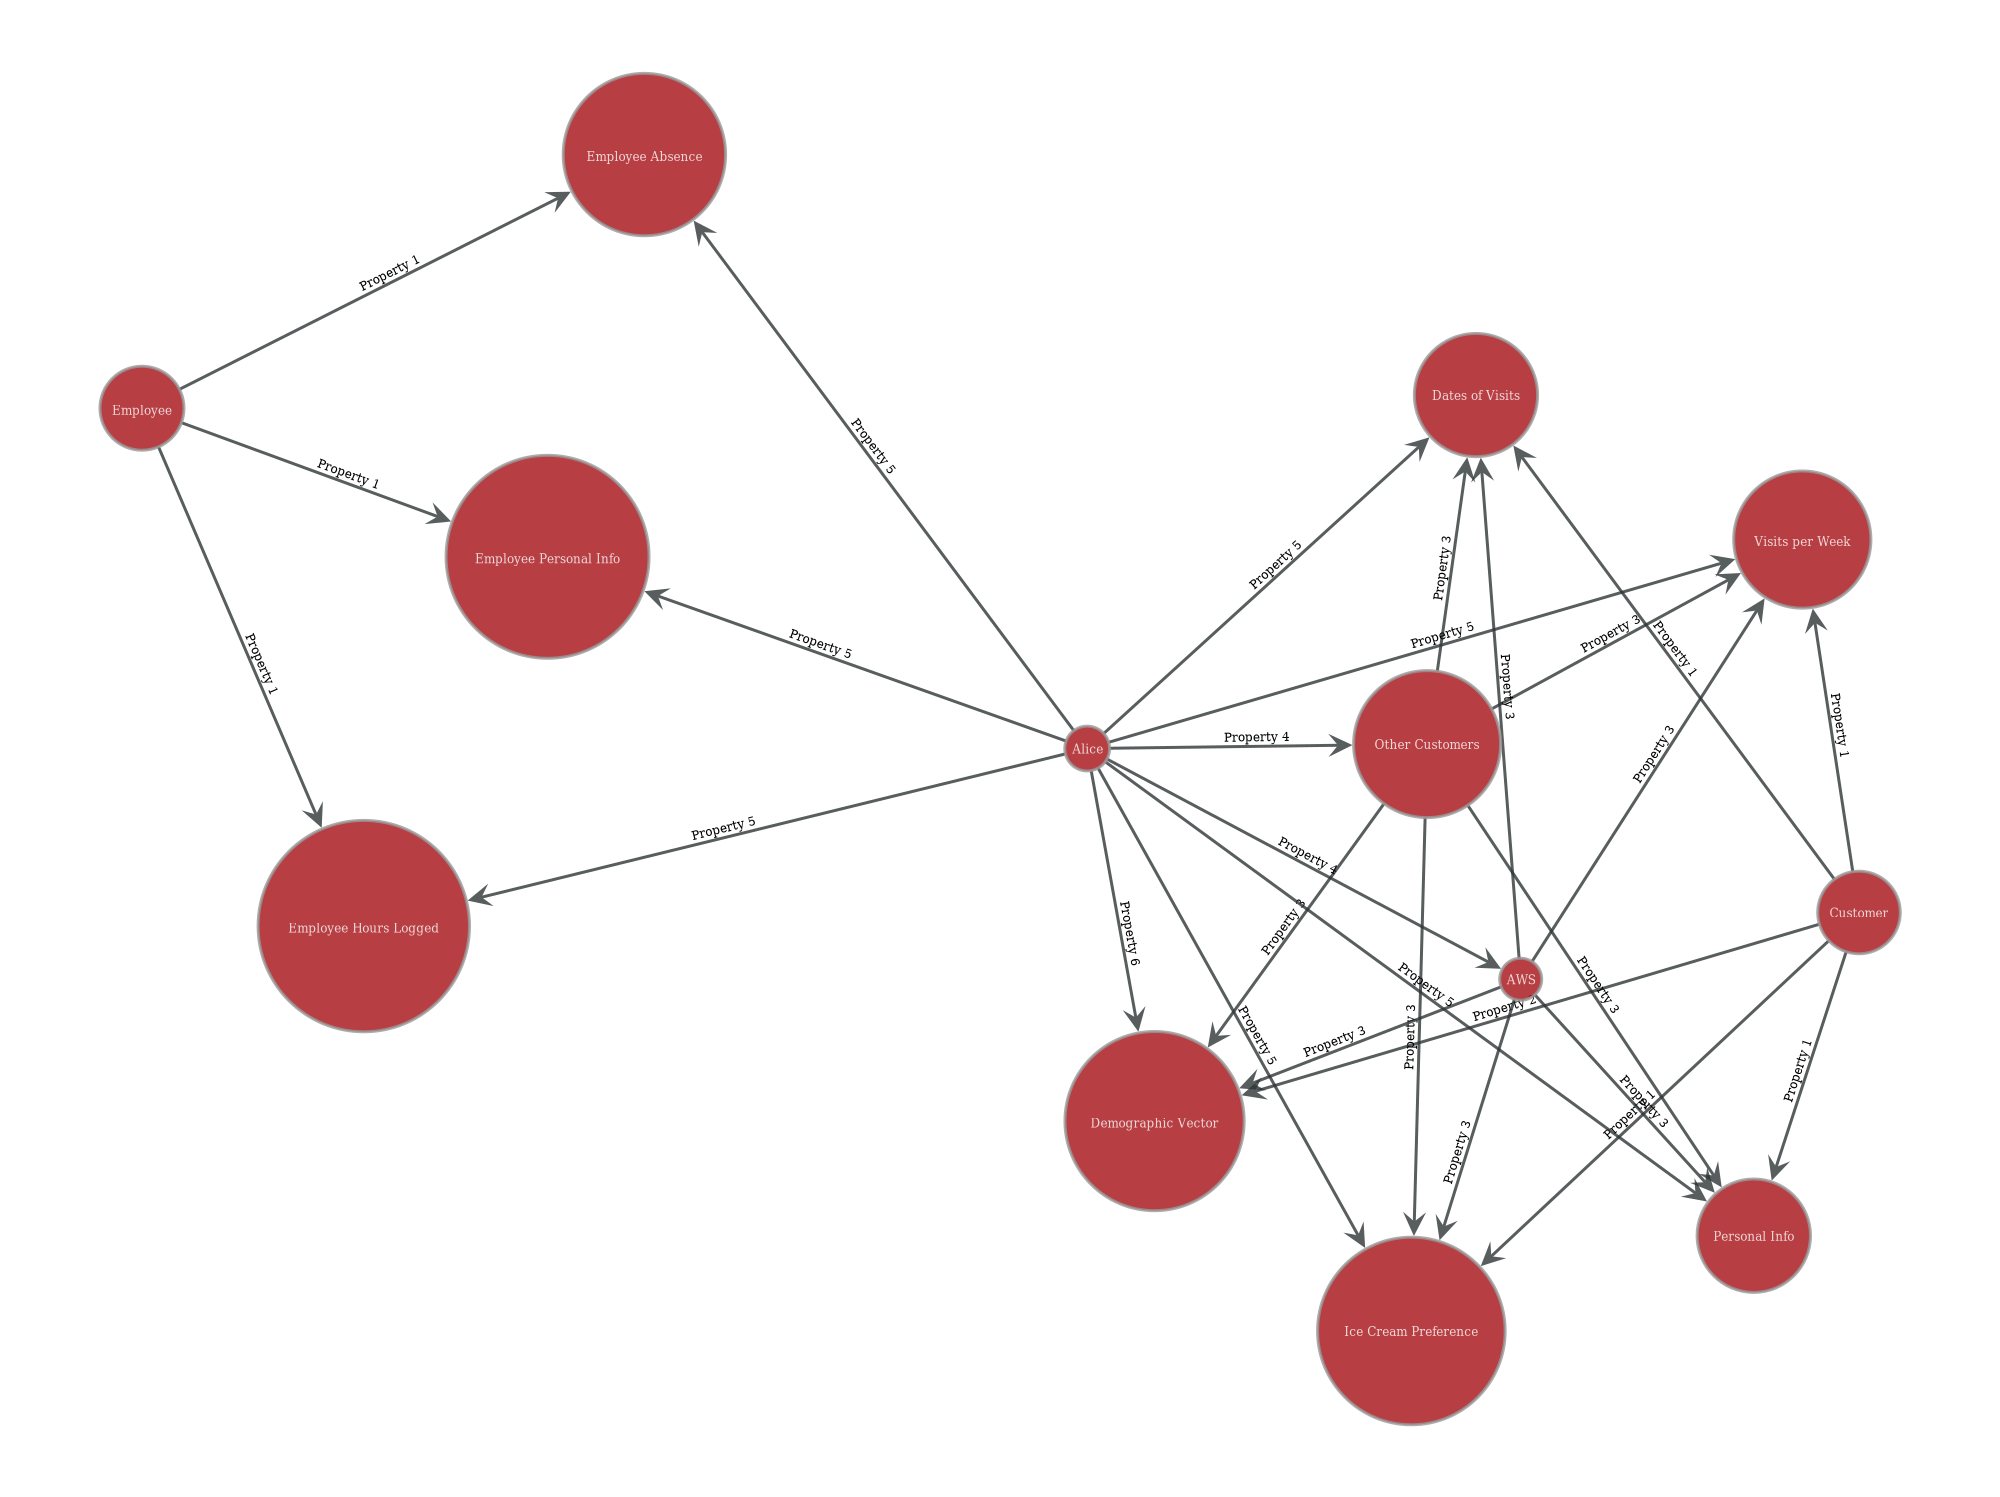
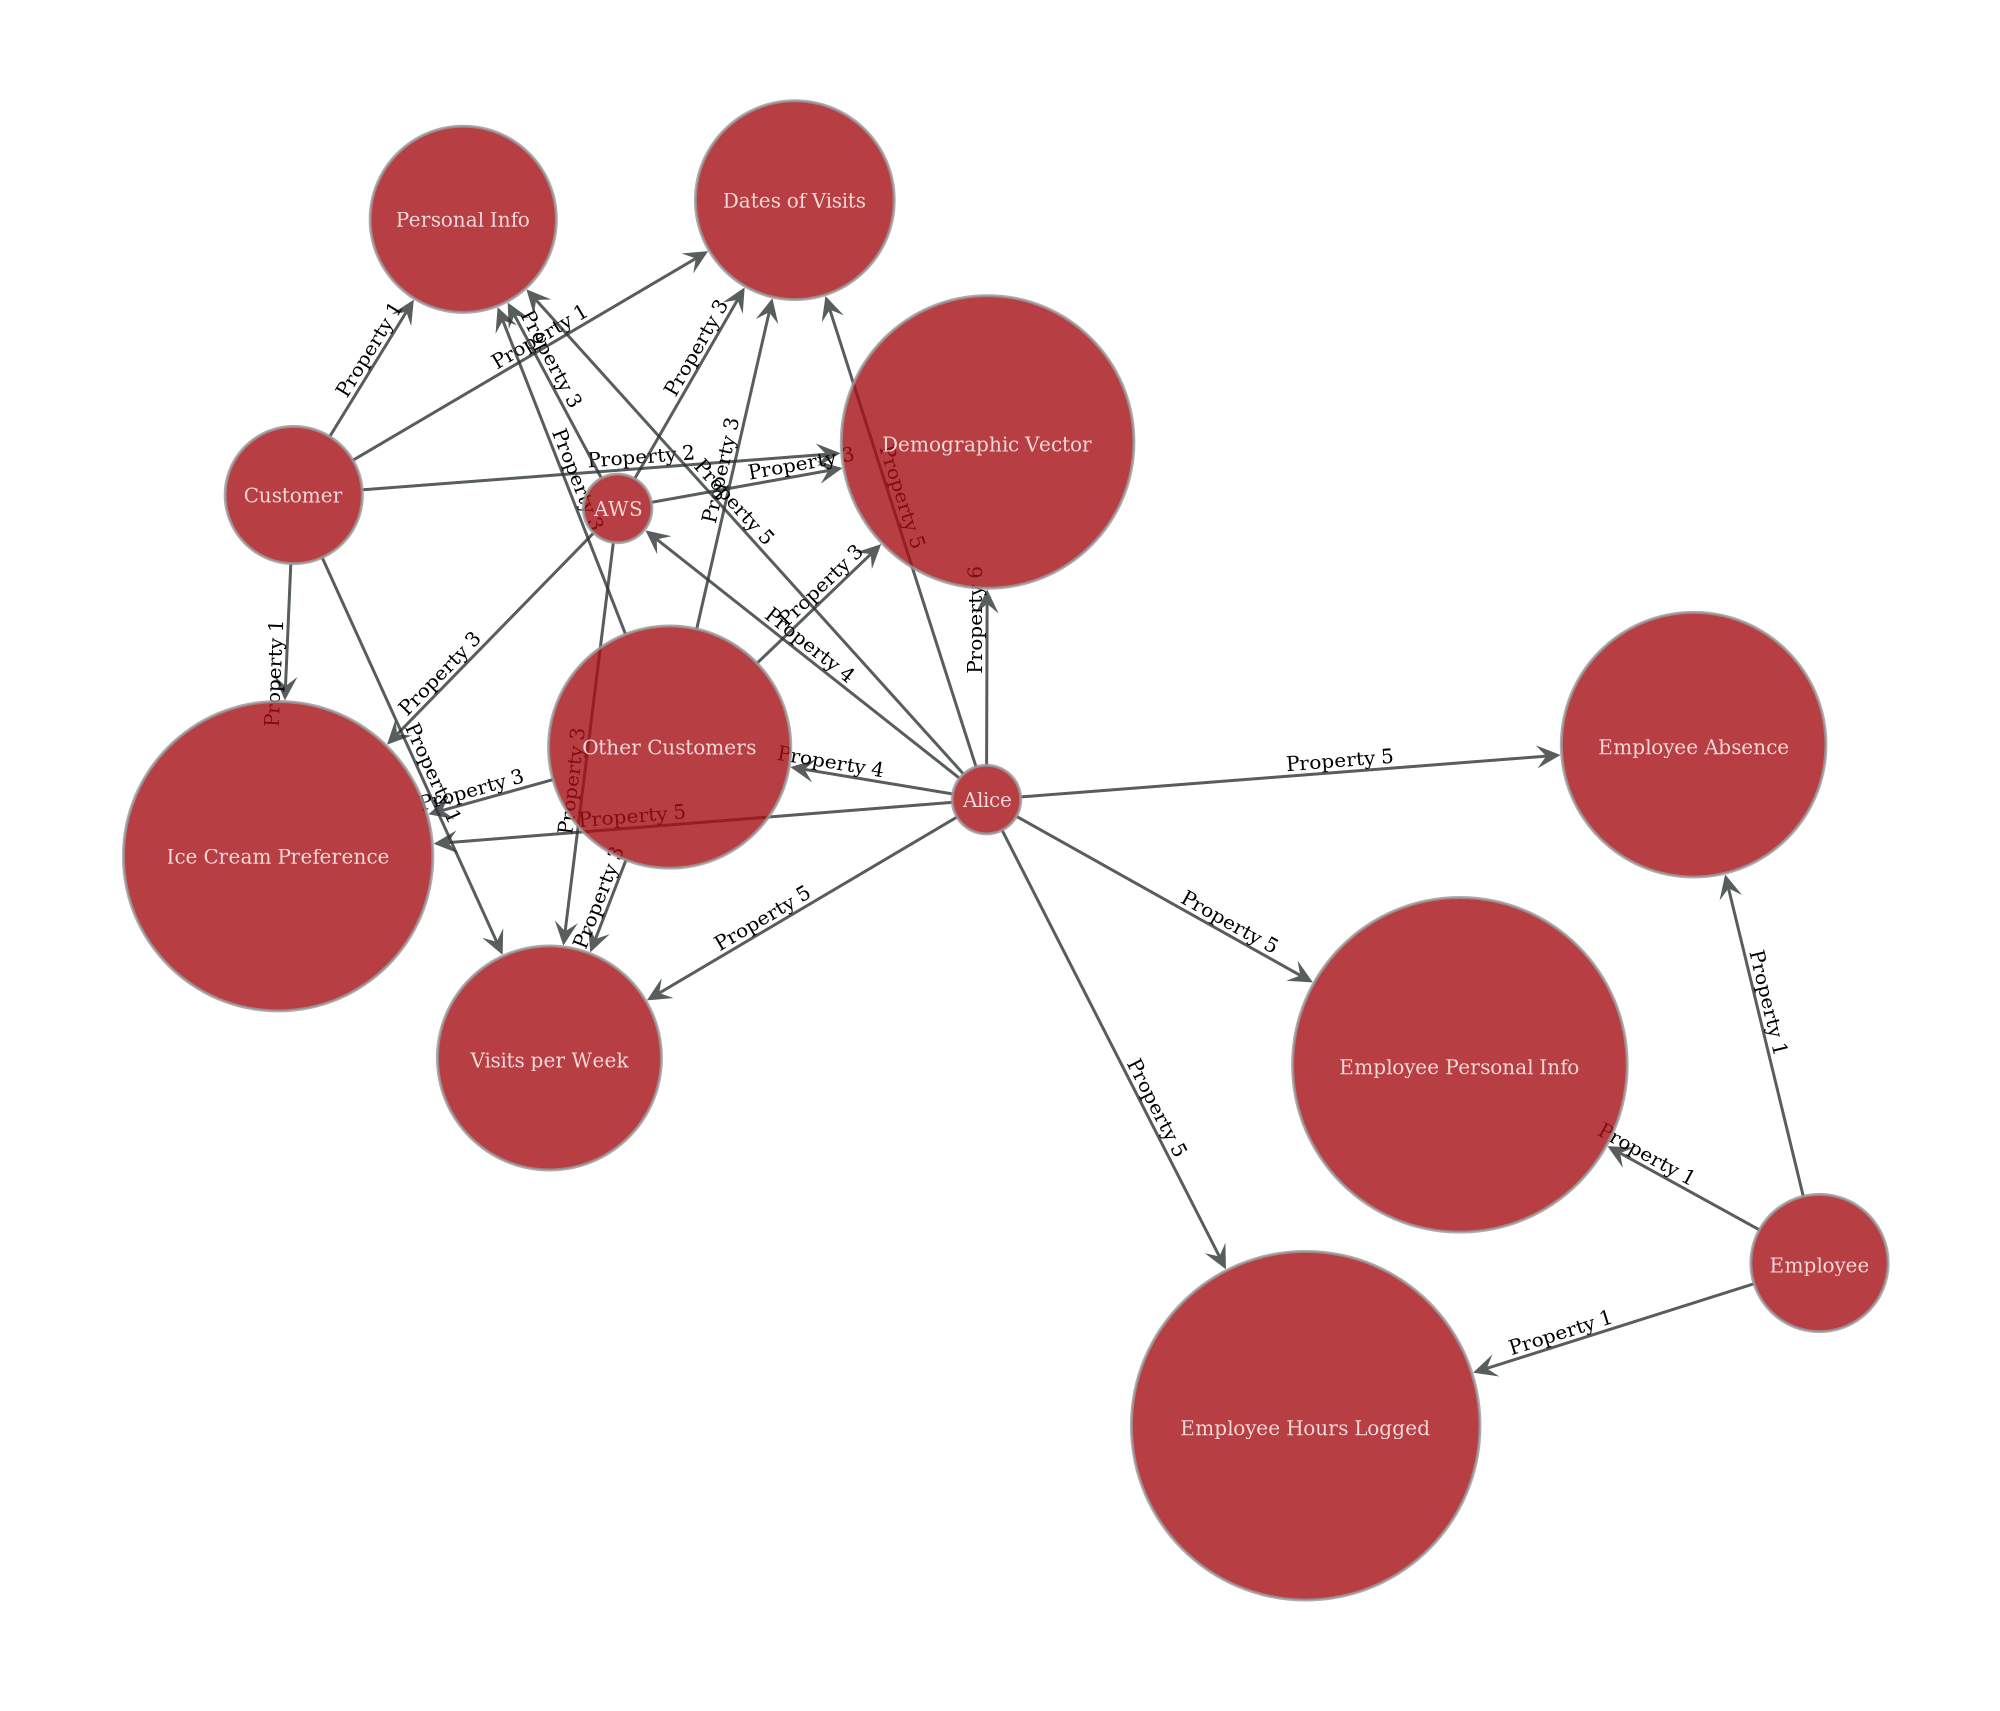
Adjusted for presentation tomorrow

Changed region(s): [[0.031, 0.0307, 0.961, 0.9526], [0.372, 0.5224, 0.434, 0.5531], [0.62, 0.3687, 0.651, 0.3995]]

diff --git a/Code/AbridgedTest.py b/Code/AbridgedTest.py
@@ -66,7 +66,9 @@ for datum in employee_data:
     datum.add_owner(employee)
     datum.add_controller(alice)
 
-ice_cream_network.render_graph(output_size = (2000, 2000),
+ice_cream_network.render_graph(output_size = (2000, 1200),
+                        vertex_font_size=20,
+                        edge_font_size=20,                               
                         filepath = "../LogicalFormatExamples/controlFigs/alice.png")
 
 franchise_network = DGGraph("Ice Cream Parlor's Inc.", "Analyzing relationships between the larger company and Alice's employees")
@@ -92,10 +94,12 @@ other_franchise_data.add_c_props(customer_c_props)
 other_franchise_data.add_owner(other_franchises)
 other_franchise_data.add_controller(franchise_owner)
 
-franchise_network.render_graph(output_size = (2000, 2000),
+franchise_network.render_graph(output_size = (2000, 1200),
+                        vertex_font_size=20,
+                        edge_font_size=20,
                         filepath = "../LogicalFormatExamples/controlFigs/company.png")
 
 merged = graph_merge(ice_cream_network, franchise_network)
 
-merged.render_graph(output_size = (2000, 2000),
-                        filepath = "../LogicalFormatExamples/controlFigs/merged.png")
+merged.render_graph(output_size = (2500, 1500),
+                    filepath = "../LogicalFormatExamples/controlFigs/merged.png")
